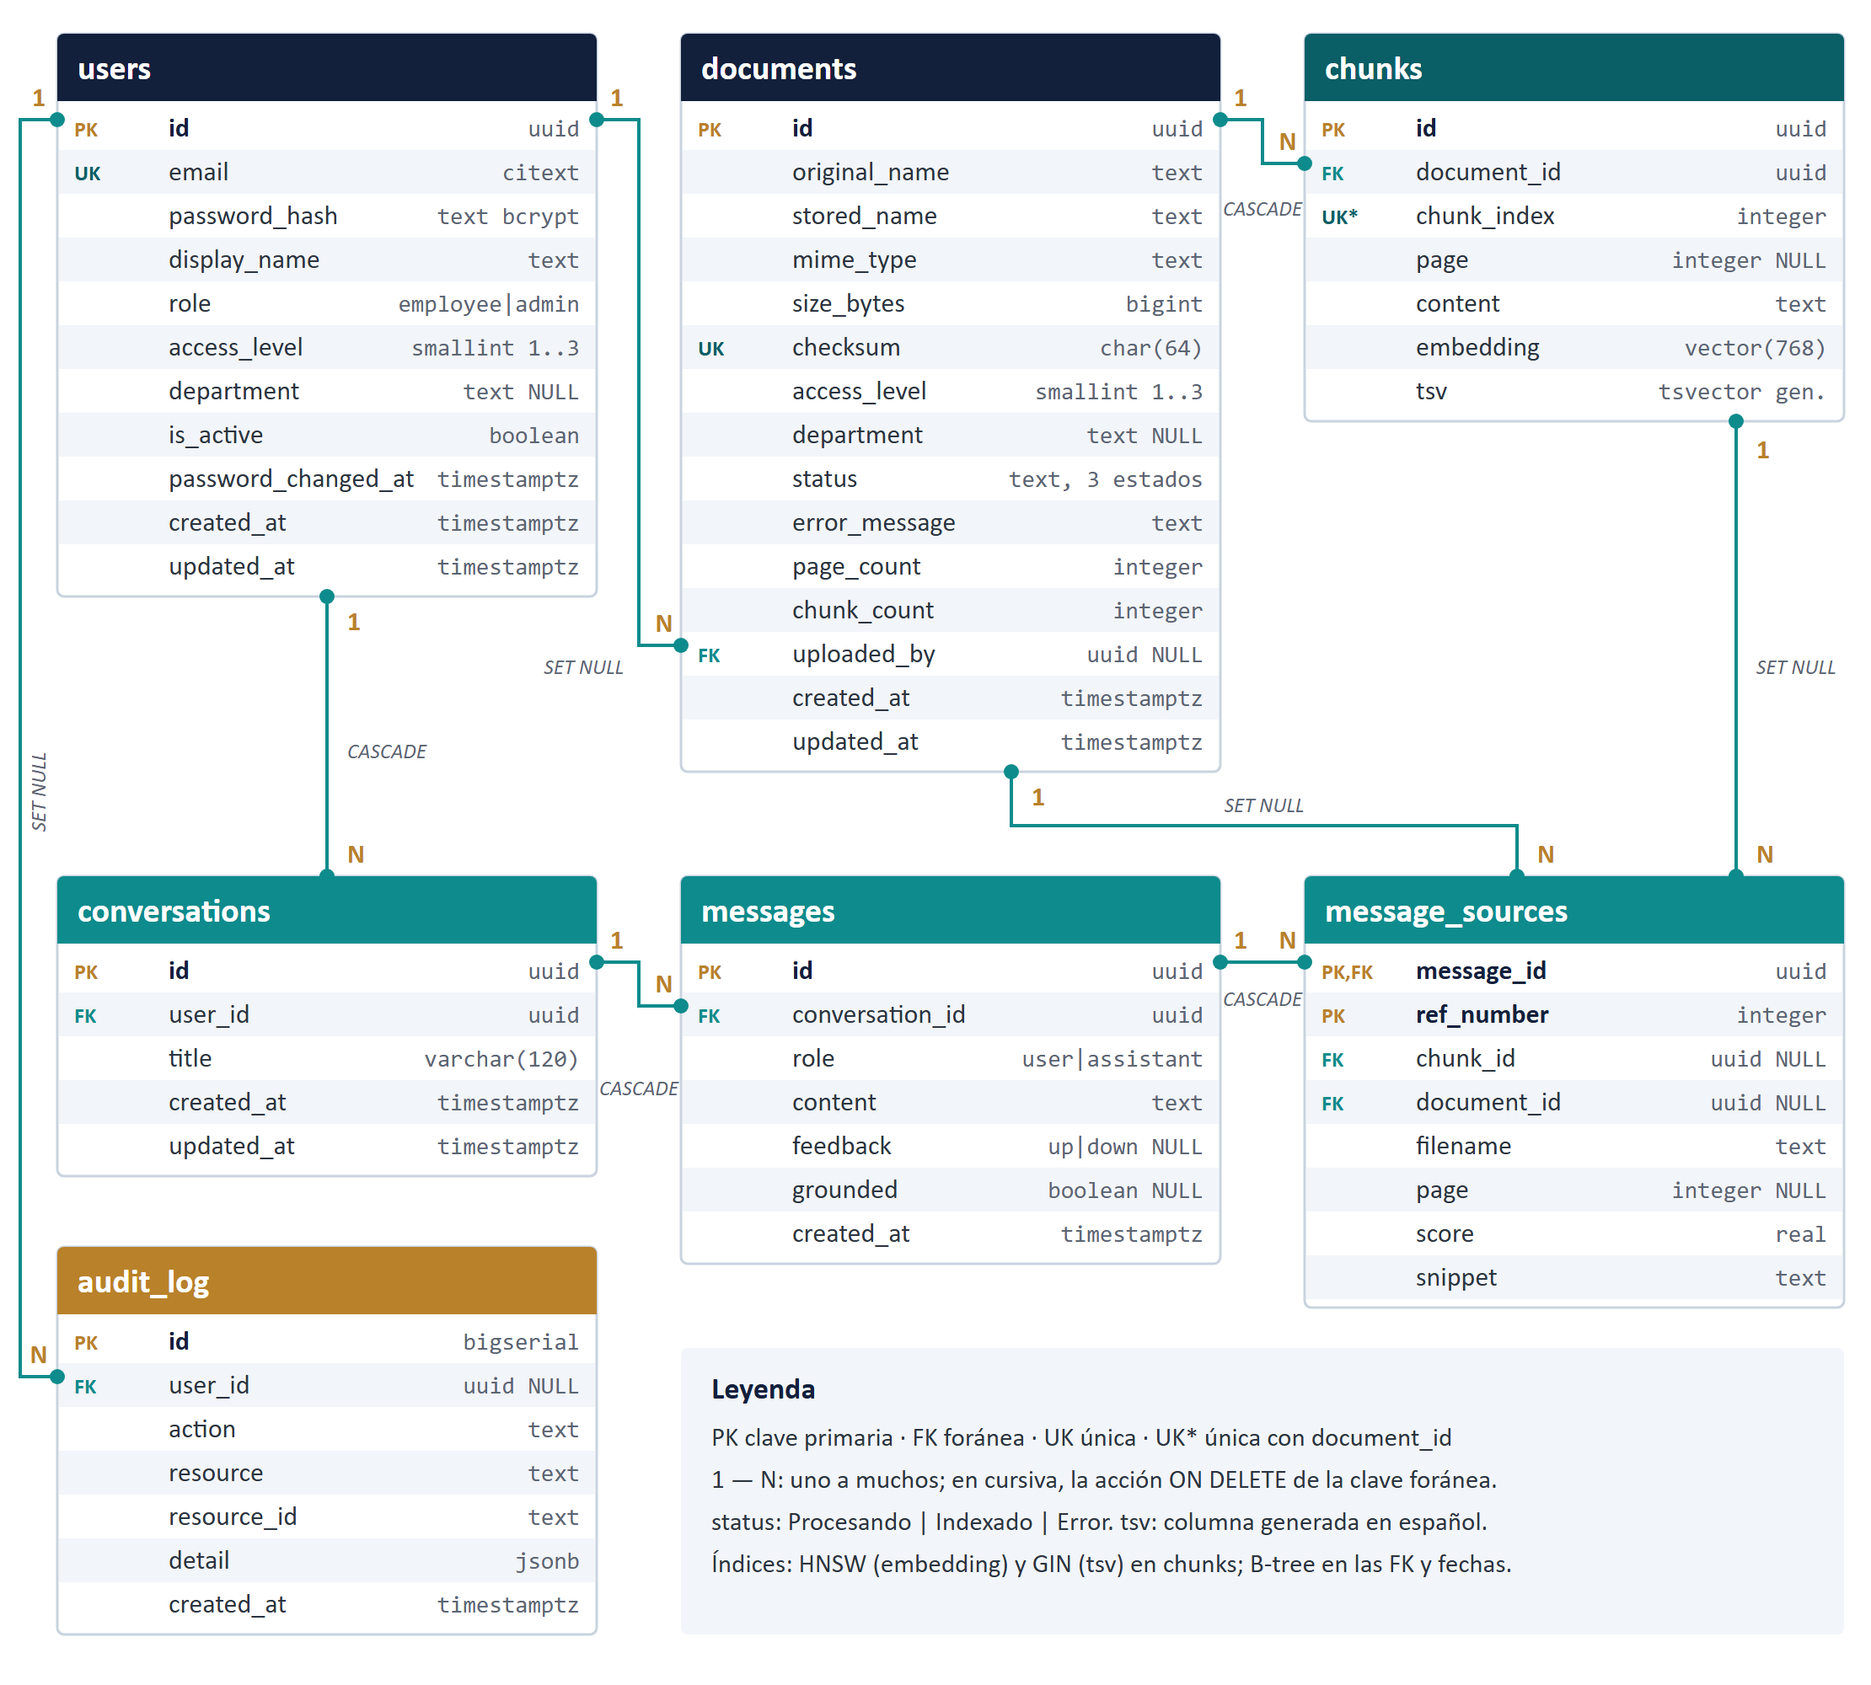
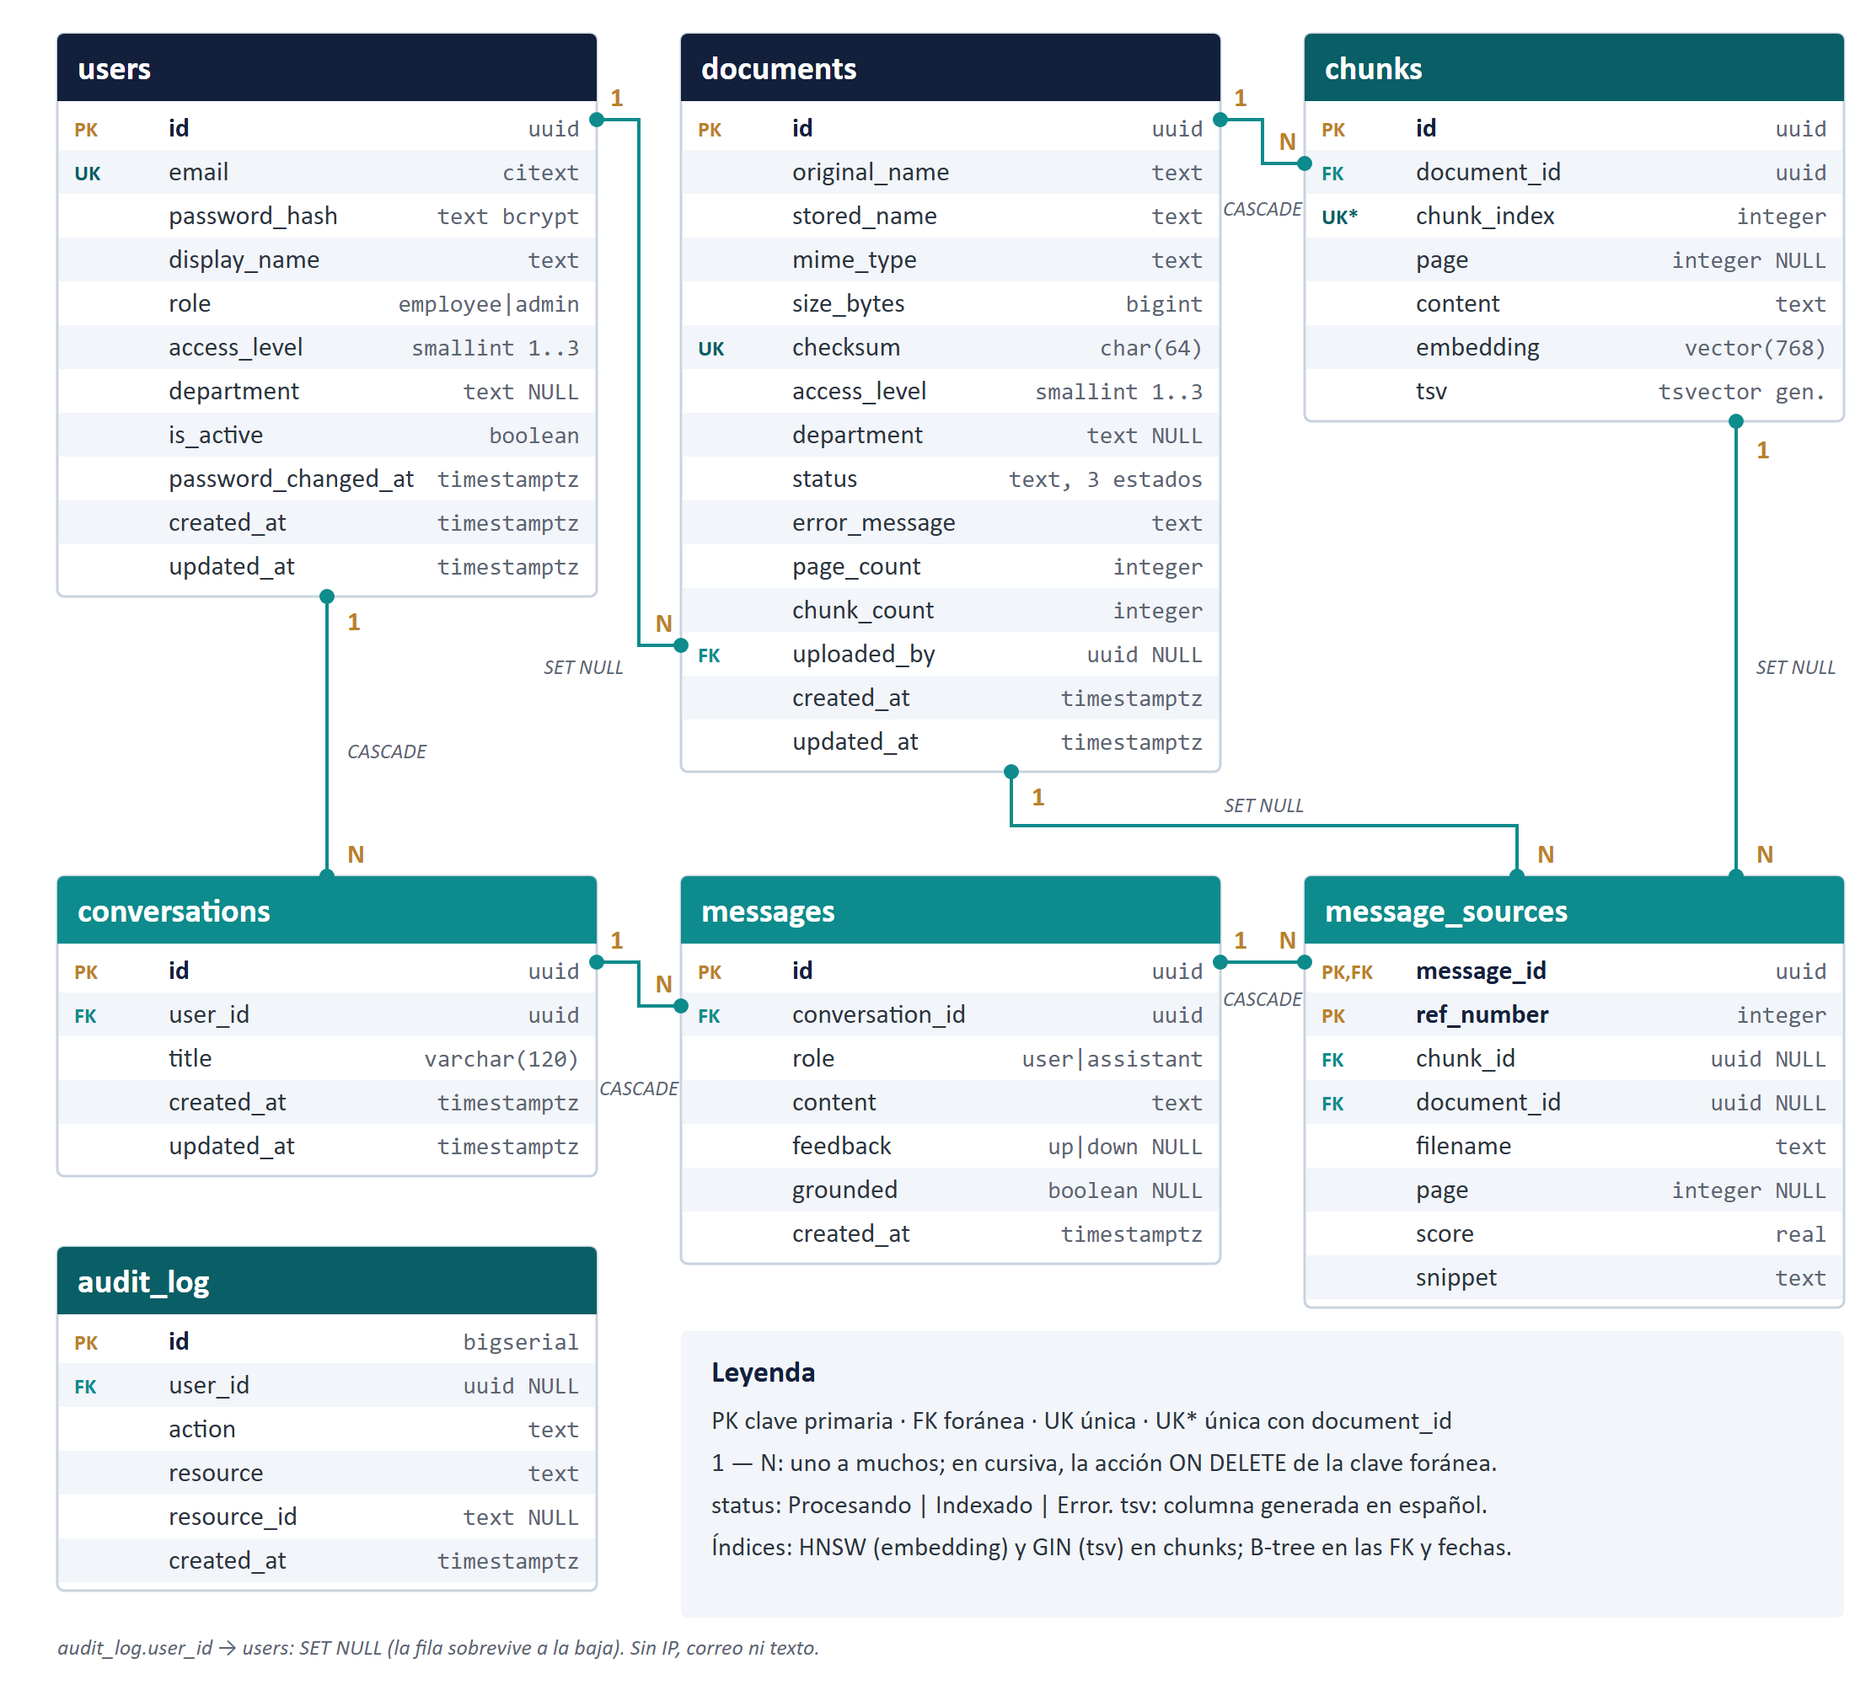
feat: auditoria minima con retencion de 30 dias y aviso de privacidad informativo
Quita ip, request_id y detail de audit_log, purga registros de mas de 30 dias
al arrancar y agrega el aviso de privacidad en el front.

diff --git a/src/components/PrivacyNotice.tsx b/src/components/PrivacyNotice.tsx
@@ -1,0 +1,79 @@
+import { useEffect, useState } from "react"
+import { Button } from "@/components/ui/button"
+import {
+  Dialog,
+  DialogContent,
+  DialogDescription,
+  DialogHeader,
+  DialogTitle,
+} from "@/components/ui/dialog"
+import { request } from "@/lib/api"
+import { markPrivacyNoticeSeen } from "@/lib/storage"
+import { FOCUS_RING_LIGHT } from "@/lib/styles"
+import { cn } from "@/lib/utils"
+
+interface PrivacyNoticeProps {
+  open: boolean
+  onClose: () => void
+}
+
+function PrivacyNotice({ open, onClose }: PrivacyNoticeProps) {
+  // Variante conservadora (nube) hasta saber que el modo es local; si health falla se queda así.
+  const [isLocal, setIsLocal] = useState(false)
+
+  useEffect(() => {
+    if (!open) return
+    const controller = new AbortController()
+    request<{ modo?: string }>("/health", { auth: false, signal: controller.signal })
+      .then((health) => setIsLocal(health.modo === "local"))
+      .catch(() => setIsLocal(false))
+    return () => controller.abort()
+  }, [open])
+
+  const close = () => {
+    markPrivacyNoticeSeen()
+    onClose()
+  }
+
+  return (
+    <Dialog open={open} onOpenChange={(next) => !next && close()}>
+      <DialogContent
+        showCloseButton={false}
+        className="gap-0 rounded-sm bg-white p-0 text-slate-900 ring-slate-300 sm:max-w-lg"
+      >
+        <DialogHeader className="gap-3 px-6 pt-6 pb-4">
+          <DialogTitle className="text-base font-semibold text-slate-900">
+            Aviso de privacidad de DocuLocal en AguaNube
+          </DialogTitle>
+          <DialogDescription className="space-y-2 text-sm text-slate-700">
+            <span className="block">
+              Para que el asistente funcione, AguaNube guarda tu correo, tu contraseña (cifrada,
+              nunca en claro) y el historial de tus preguntas y respuestas. Se usan solo para el
+              funcionamiento del programa y para dar contexto a las respuestas.
+            </span>
+            <span className="block">
+              Además se registran acciones de seguridad (inicio de sesión, consultas, gestión de
+              documentos) sin IP ni contenido, y se eliminan a los 30 días.
+            </span>
+            <span className="block">
+              {isLocal
+                ? "Nada de lo que escribas sale de la red de la empresa."
+                : "Tu pregunta y los fragmentos de documentos recuperados se envían a un proveedor de inteligencia artificial en EE. UU. para generar la respuesta."}
+            </span>
+          </DialogDescription>
+        </DialogHeader>
+        <div className="flex justify-end border-t border-slate-200 px-6 py-4">
+          <Button
+            type="button"
+            onClick={close}
+            className={cn("h-11 rounded-sm bg-slate-900 px-5 text-white hover:bg-slate-800", FOCUS_RING_LIGHT)}
+          >
+            Entendido
+          </Button>
+        </div>
+      </DialogContent>
+    </Dialog>
+  )
+}
+
+export default PrivacyNotice

diff --git a/src/components/AppLayout.tsx b/src/components/AppLayout.tsx
@@ -3,8 +3,10 @@ import type { MouseEvent } from "react"
 import { flushSync } from "react-dom"
 import { Menu, X } from "lucide-react"
 import { Outlet, useLocation } from "react-router-dom"
+import PrivacyNotice from "@/components/PrivacyNotice"
 import Sidebar from "@/components/Sidebar"
 import { useDocumentTitle } from "@/hooks/useDocumentTitle"
+import { hasSeenPrivacyNotice } from "@/lib/storage"
 import { FOCUS_RING_DARK } from "@/lib/styles"
 import { cn } from "@/lib/utils"
 
@@ -26,6 +28,7 @@ function AppLayout() {
   const location = useLocation()
   const section = getSection(location.pathname)
   const [menuOpen, setMenuOpen] = useState(false)
+  const [privacyOpen, setPrivacyOpen] = useState(() => !hasSeenPrivacyNotice())
 
   const mainRef = useRef<HTMLElement>(null)
   const sidebarRef = useRef<HTMLElement>(null)
@@ -127,6 +130,7 @@ function AppLayout() {
         id={SIDEBAR_ID}
         ref={sidebarRef}
         onNavigate={handleNavigate}
+        onOpenPrivacy={() => setPrivacyOpen(true)}
         className={cn(
           "fixed top-14 bottom-0 left-0 z-40 h-auto md:static md:z-auto md:flex md:h-full",
           menuOpen ? "flex" : "hidden",
@@ -142,6 +146,7 @@ function AppLayout() {
       >
         <Outlet />
       </main>
+      <PrivacyNotice open={privacyOpen} onClose={() => setPrivacyOpen(false)} />
     </div>
   )
 }

diff --git a/src/components/Sidebar.tsx b/src/components/Sidebar.tsx
@@ -34,6 +34,8 @@ interface SidebarProps {
   ref?: Ref<HTMLElement>
   /** Se invoca al activar un enlace (cierra el panel en pantallas pequeñas). */
   onNavigate?: () => void
+  /** Reabre el aviso de privacidad. */
+  onOpenPrivacy?: () => void
 }
 
 const ROW_ACTION_CLASS =
@@ -42,7 +44,7 @@ const ROW_ACTION_CLASS =
 const FOOTER_LINK_CLASS =
   "flex min-h-11 w-full items-center justify-center gap-2 rounded-sm border border-slate-600 px-3 text-sm font-medium text-slate-100 transition-colors hover:bg-slate-800"
 
-function Sidebar({ id, className, ref, onNavigate }: SidebarProps) {
+function Sidebar({ id, className, ref, onNavigate, onOpenPrivacy }: SidebarProps) {
   const { session, isAdmin, logout } = useAuth()
   const { conversations, listStatus, reloadConversations, renameConversation, deleteConversation } =
     useChat()
@@ -242,6 +244,13 @@ function Sidebar({ id, className, ref, onNavigate }: SidebarProps) {
           >
             <LogOut className="size-4" aria-hidden="true" />
             Cerrar sesión
+          </button>
+          <button
+            type="button"
+            onClick={onOpenPrivacy}
+            className={cn("rounded-sm text-xs text-slate-300 underline hover:text-white", FOCUS_RING_DARK)}
+          >
+            Privacidad
           </button>
         </div>
       </div>

diff --git a/src/lib/storage.ts b/src/lib/storage.ts
@@ -59,3 +59,21 @@ export function purgeLegacyStorage(): void {
     // Almacenamiento no disponible.
   }
 }
+
+const PRIVACY_KEY = "doculocal:privacy-notice:v1"
+
+export function hasSeenPrivacyNotice(): boolean {
+  try {
+    return localStorage.getItem(PRIVACY_KEY) === "1"
+  } catch {
+    return false
+  }
+}
+
+export function markPrivacyNoticeSeen(): void {
+  try {
+    localStorage.setItem(PRIVACY_KEY, "1")
+  } catch {
+    // Sin almacenamiento: el aviso volverá a mostrarse.
+  }
+}

diff --git a/src/components/ChatView.tsx b/src/components/ChatView.tsx
@@ -357,7 +357,7 @@ function ChatView() {
           </Button>
         </form>
         <p className="mx-auto mt-2 max-w-4xl text-xs text-slate-600">
-          Las respuestas se generan a partir de los documentos indexados.
+          Las respuestas se generan a partir de los documentos indexados. No escribas datos personales de otras personas.
         </p>
       </div>
 

diff --git a/backend/app/services/document_service.py b/backend/app/services/document_service.py
@@ -124,7 +124,7 @@ def upload(actor: dict, stream: BinaryIO, filename: str, access_level: str, depa
         if isinstance(exc, document_repository.DuplicateChecksum):
             raise Conflict("Este documento ya fue subido.", "documento_duplicado") from None
         raise
-    audit_service.record(str(actor["id"]), "document.upload", "document", str(row["id"]), nombre=row["original_name"])
+    audit_service.record(str(actor["id"]), "document.upload", "document", str(row["id"]))
     schedule(index_document, str(row["id"]))
     return to_document_out(row)
 
@@ -139,7 +139,7 @@ def update_document(actor: dict, document_id: str, data: DocumentUpdate) -> Docu
     row = document_repository.update_access(document_id, fields)
     if row is None:
         raise NotFound("El documento no existe.", "documento_no_encontrado")
-    audit_service.record(str(actor["id"]), "document.update", "document", document_id, campos=sorted(fields))
+    audit_service.record(str(actor["id"]), "document.update", "document", document_id)
     return to_document_out(row)
 
 
@@ -148,7 +148,7 @@ def delete_document(actor: dict, document_id: str) -> None:
     if row is None or not document_repository.delete(document_id):
         raise NotFound("El documento no existe.", "documento_no_encontrado")
     (get_settings().storage_path / row["stored_name"]).unlink(missing_ok=True)
-    audit_service.record(str(actor["id"]), "document.delete", "document", document_id, nombre=row["original_name"])
+    audit_service.record(str(actor["id"]), "document.delete", "document", document_id)
 
 
 def get_file(user: dict, document_id: str) -> tuple[Path, str, str]:

diff --git a/backend/app/services/audit_service.py b/backend/app/services/audit_service.py
@@ -1,16 +1,26 @@
 import logging
 
-from app.core.logging import current_ip, current_request_id
 from app.repositories import audit_repository
 
 logger = logging.getLogger("doculocal.auditoria")
 
 
-def record(user_id: str | None, action: str, resource: str, resource_id: str | None = None, **detail) -> None:
-    """La auditoría nunca debe romper la operación principal: si falla, solo se registra en el log."""
+def record(user_id: str | None, action: str, resource: str, resource_id: str | None = None) -> None:
+    """Auditoría mínima (Ley 21.719): fecha, quién (user_id), acción y recurso. Sin IP, correo, textos ni detalle libre.
+    Nunca debe romper la operación principal: si falla, solo se registra en el log."""
     try:
-        # quién (user_id) + desde dónde (ip) + qué petición (request_id, cruzable con el log de acceso)
-        detail = {**detail, "ip": current_ip(), "request_id": current_request_id()}
-        audit_repository.insert(user_id, action, resource, resource_id, detail)
+        audit_repository.insert(user_id, action, resource, resource_id)
     except Exception:
         logger.exception("No se pudo escribir en audit_log (%s)", action)
+
+
+RETENTION_DAYS = 30
+
+
+def purge_expired() -> None:
+    """Retención de 30 días (Ley 21.719). Se ejecuta al arrancar; si falla, solo se registra."""
+    try:
+        n = audit_repository.purge_older_than(RETENTION_DAYS)
+        logger.info("Auditoría: %d registros vencidos eliminados", n)
+    except Exception:
+        logger.exception("No se pudo purgar audit_log")

diff --git a/backend/app/services/chat_service.py b/backend/app/services/chat_service.py
@@ -80,7 +80,7 @@ def answer(user: dict, conversation_id: str, question: str) -> dict:
     stages["guard"] = round((time.perf_counter() - t_guard) * 1000)
     if score > INJECTION_THRESHOLD:
         text, sources, grounded = BLOCKED_ANSWER, [], False
-        audit_service.record(user_id, "consulta_bloqueada", "conversation", conversation_id, motivo="inyeccion")
+        audit_service.record(user_id, "consulta_bloqueada", "conversation", conversation_id)
         mode = "bloqueada"
         logger.warning("Consulta bloqueada por posible inyección puntaje=%.2f", score)
     else:
@@ -102,6 +102,5 @@ def answer(user: dict, conversation_id: str, question: str) -> dict:
                 "ms=%d etapas_ms={%s}", mode or "respondida", plan_tipo, n_sub, len(sources), grounded,
                 len(question), ms, " ".join(f"{k}={v}" for k, v in stages.items()))
     if mode != "bloqueada":
-        audit_service.record(user_id, "consulta", "conversation", conversation_id,
-                             n_fuentes=len(sources), grounded=grounded, ms=ms)
+        audit_service.record(user_id, "consulta", "conversation", conversation_id)
     return {"question": {**user_msg, "sources": []}, "answer": assistant, "ms": ms}

diff --git a/backend/app/core/middleware.py b/backend/app/core/middleware.py
@@ -21,7 +21,7 @@ class RequestContextMiddleware:
         if scope["type"] != "http":
             return await self.app(scope, receive, send)
         client = scope.get("client")
-        ctx = new_request_ctx(Headers(scope=scope).get(HEADER), client[0] if client else None)
+        ctx = new_request_ctx(Headers(scope=scope).get(HEADER))
         started = time.perf_counter()
         status = 500
         logged = False
@@ -34,8 +34,8 @@ class RequestContextMiddleware:
             path = scope["path"]
             ms = round((time.perf_counter() - started) * 1000)
             level = logging.DEBUG if path.endswith("/health") else logging.INFO  # el front consulta la salud a menudo
-            logger.log(level, "%s %s status=%s ms=%d user_id=%s ip=%s",
-                       scope["method"], path, status, ms, ctx["user_id"] or "-", ctx["ip"] or "-")
+            logger.log(level, "%s %s status=%s ms=%d user_id=%s",
+                       scope["method"], path, status, ms, ctx["user_id"] or "-")
 
         async def send_wrapper(message):
             nonlocal status

diff --git a/backend/app/repositories/audit_repository.py b/backend/app/repositories/audit_repository.py
@@ -1,11 +1,15 @@
-from psycopg.types.json import Jsonb
-
 from app.repositories import db
 
 
-def insert(user_id: str | None, action: str, resource: str, resource_id: str | None, detail: dict) -> None:
+def insert(user_id: str | None, action: str, resource: str, resource_id: str | None) -> None:
     with db.cursor() as cur:
         cur.execute(
-            "INSERT INTO audit_log (user_id, action, resource, resource_id, detail) VALUES (%s, %s, %s, %s, %s)",
-            (user_id, action, resource, resource_id, Jsonb(detail)),
+            "INSERT INTO audit_log (user_id, action, resource, resource_id) VALUES (%s, %s, %s, %s)",
+            (user_id, action, resource, resource_id),
         )
+
+
+def purge_older_than(days: int) -> int:
+    with db.cursor() as cur:
+        cur.execute("DELETE FROM audit_log WHERE created_at < now() - make_interval(days => %s)", (days,))
+        return cur.rowcount

diff --git a/backend/app/services/auth_service.py b/backend/app/services/auth_service.py
@@ -111,7 +111,7 @@ def login(email: str, password: str, client_ip: str | None = None) -> LoginOut:
     user = user_repository.get_by_email(email)
     valid = verify_password(password, user["password_hash"] if user else _DUMMY_HASH)
     if user is None or not valid:
-        # sin correo en la auditoría (Ley 21.719): user_id si existe; la IP y el request_id los agrega record()
+        # sin correo en la auditoría (Ley 21.719): user_id si existe
         audit_service.record(str(user["id"]) if user else None, "auth.login_failed", "user")
         logger.warning("Login fallido motivo=credenciales email=%s", mask_email(email))
         raise Unauthorized("Correo o contraseña incorrectos.", "credenciales_invalidas")

diff --git a/backend/app/core/logging.py b/backend/app/core/logging.py
@@ -18,10 +18,10 @@ def sanitize(text: str) -> str:
     return _CONTROL.sub(lambda m: m.group().encode("unicode_escape").decode(), text)
 
 
-def new_request_ctx(incoming: str | None, ip: str | None = None) -> dict:
+def new_request_ctx(incoming: str | None) -> dict:
     """Respeta un X-Request-ID válido (≤64, alfanumérico o guion); si no, genera uno."""
     rid = incoming if incoming and _VALID_ID.fullmatch(incoming) else secrets.token_hex(4)
-    ctx = {"request_id": rid, "user_id": None, "ip": ip}
+    ctx = {"request_id": rid, "user_id": None}
     _ctx.set(ctx)
     return ctx
 
